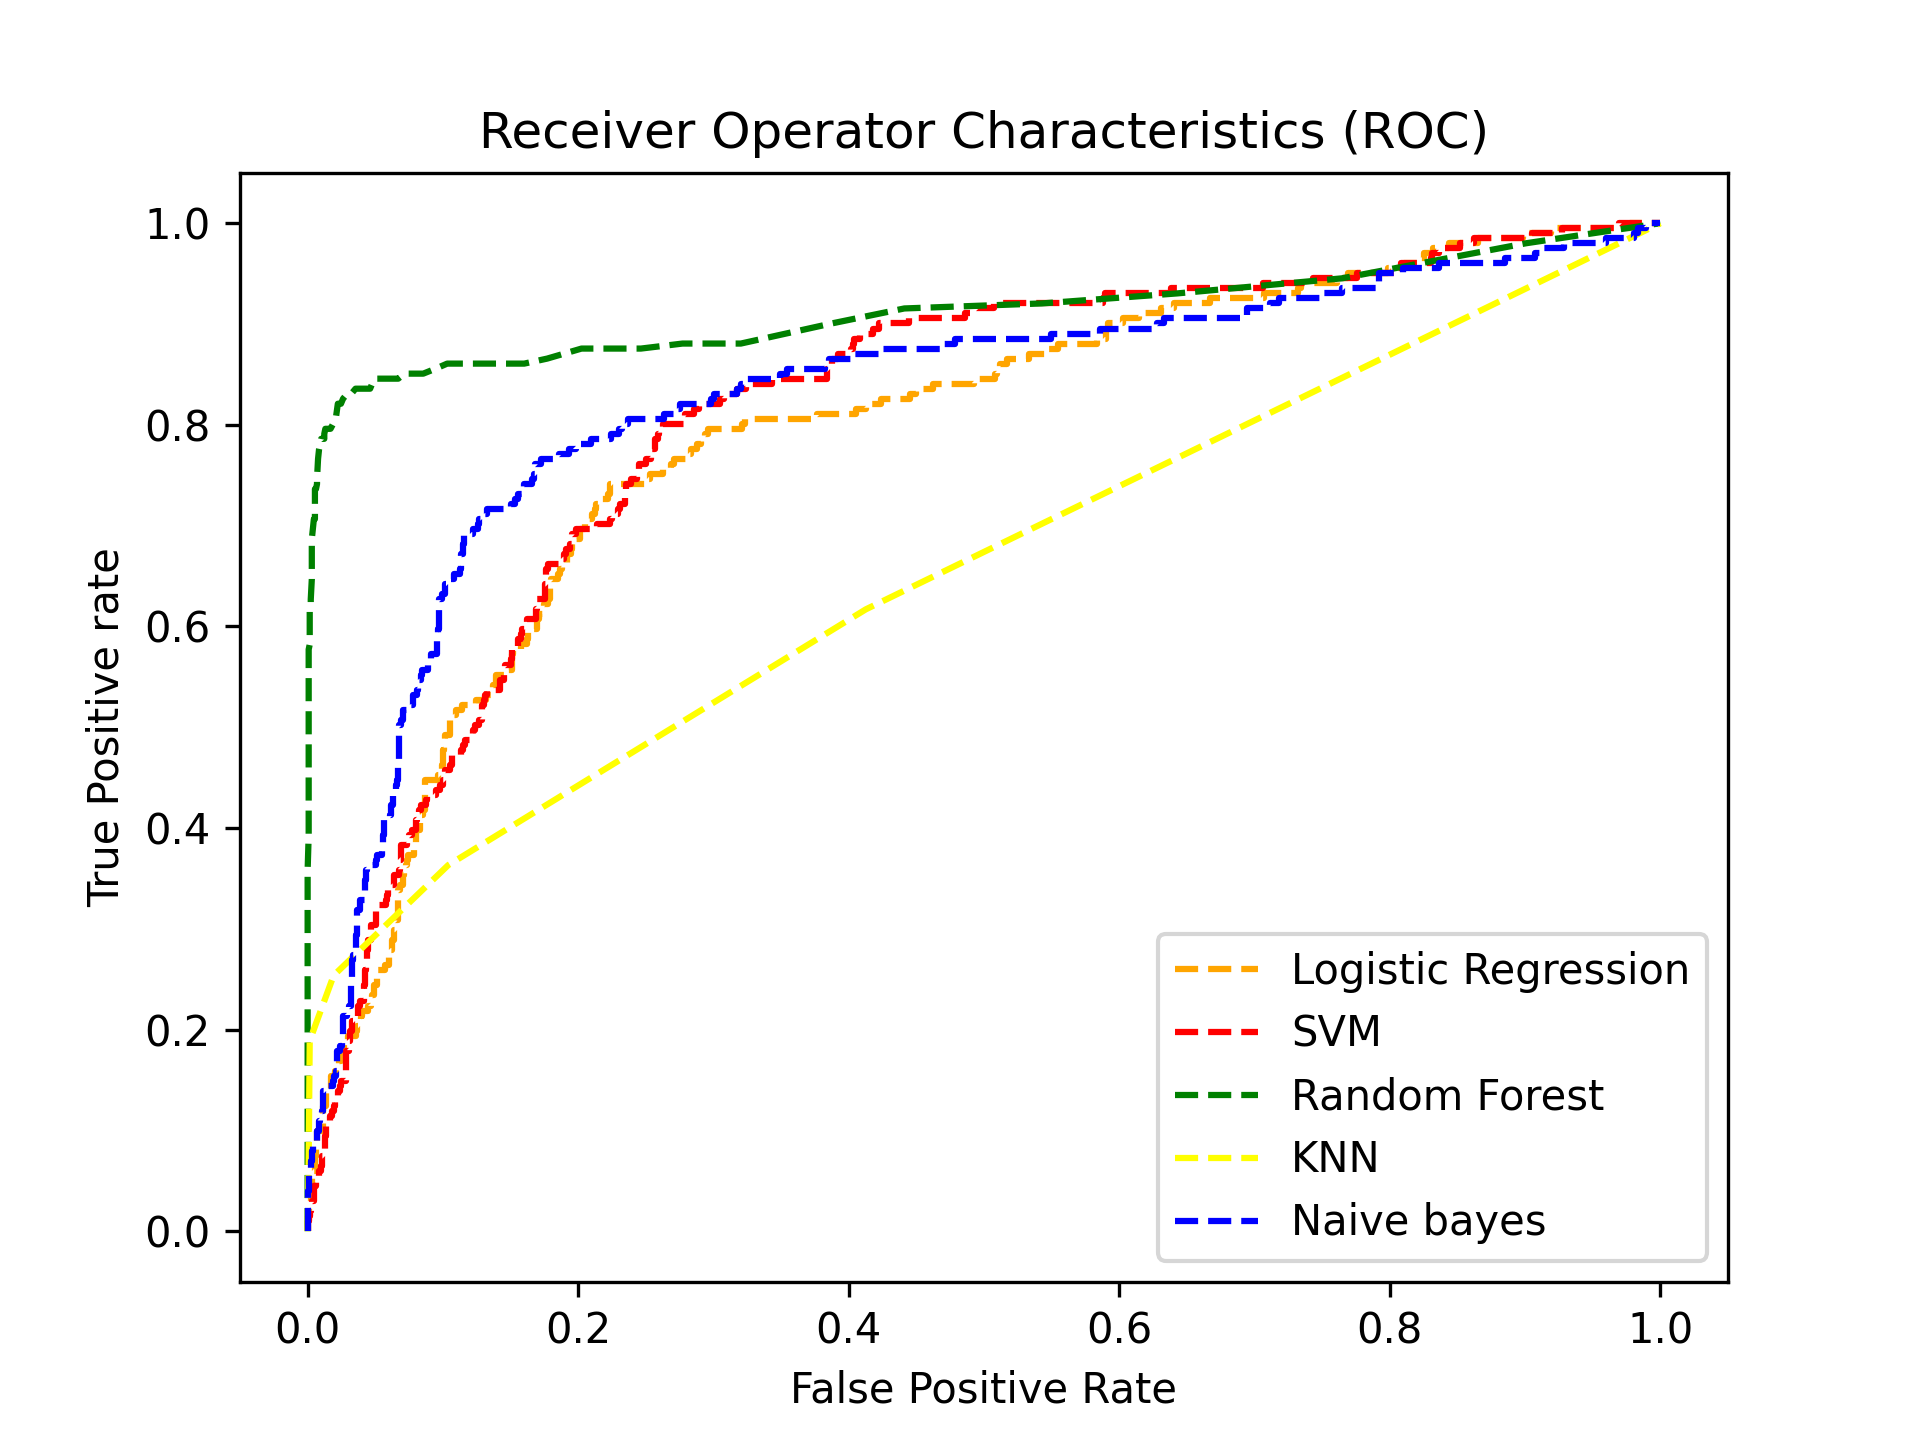
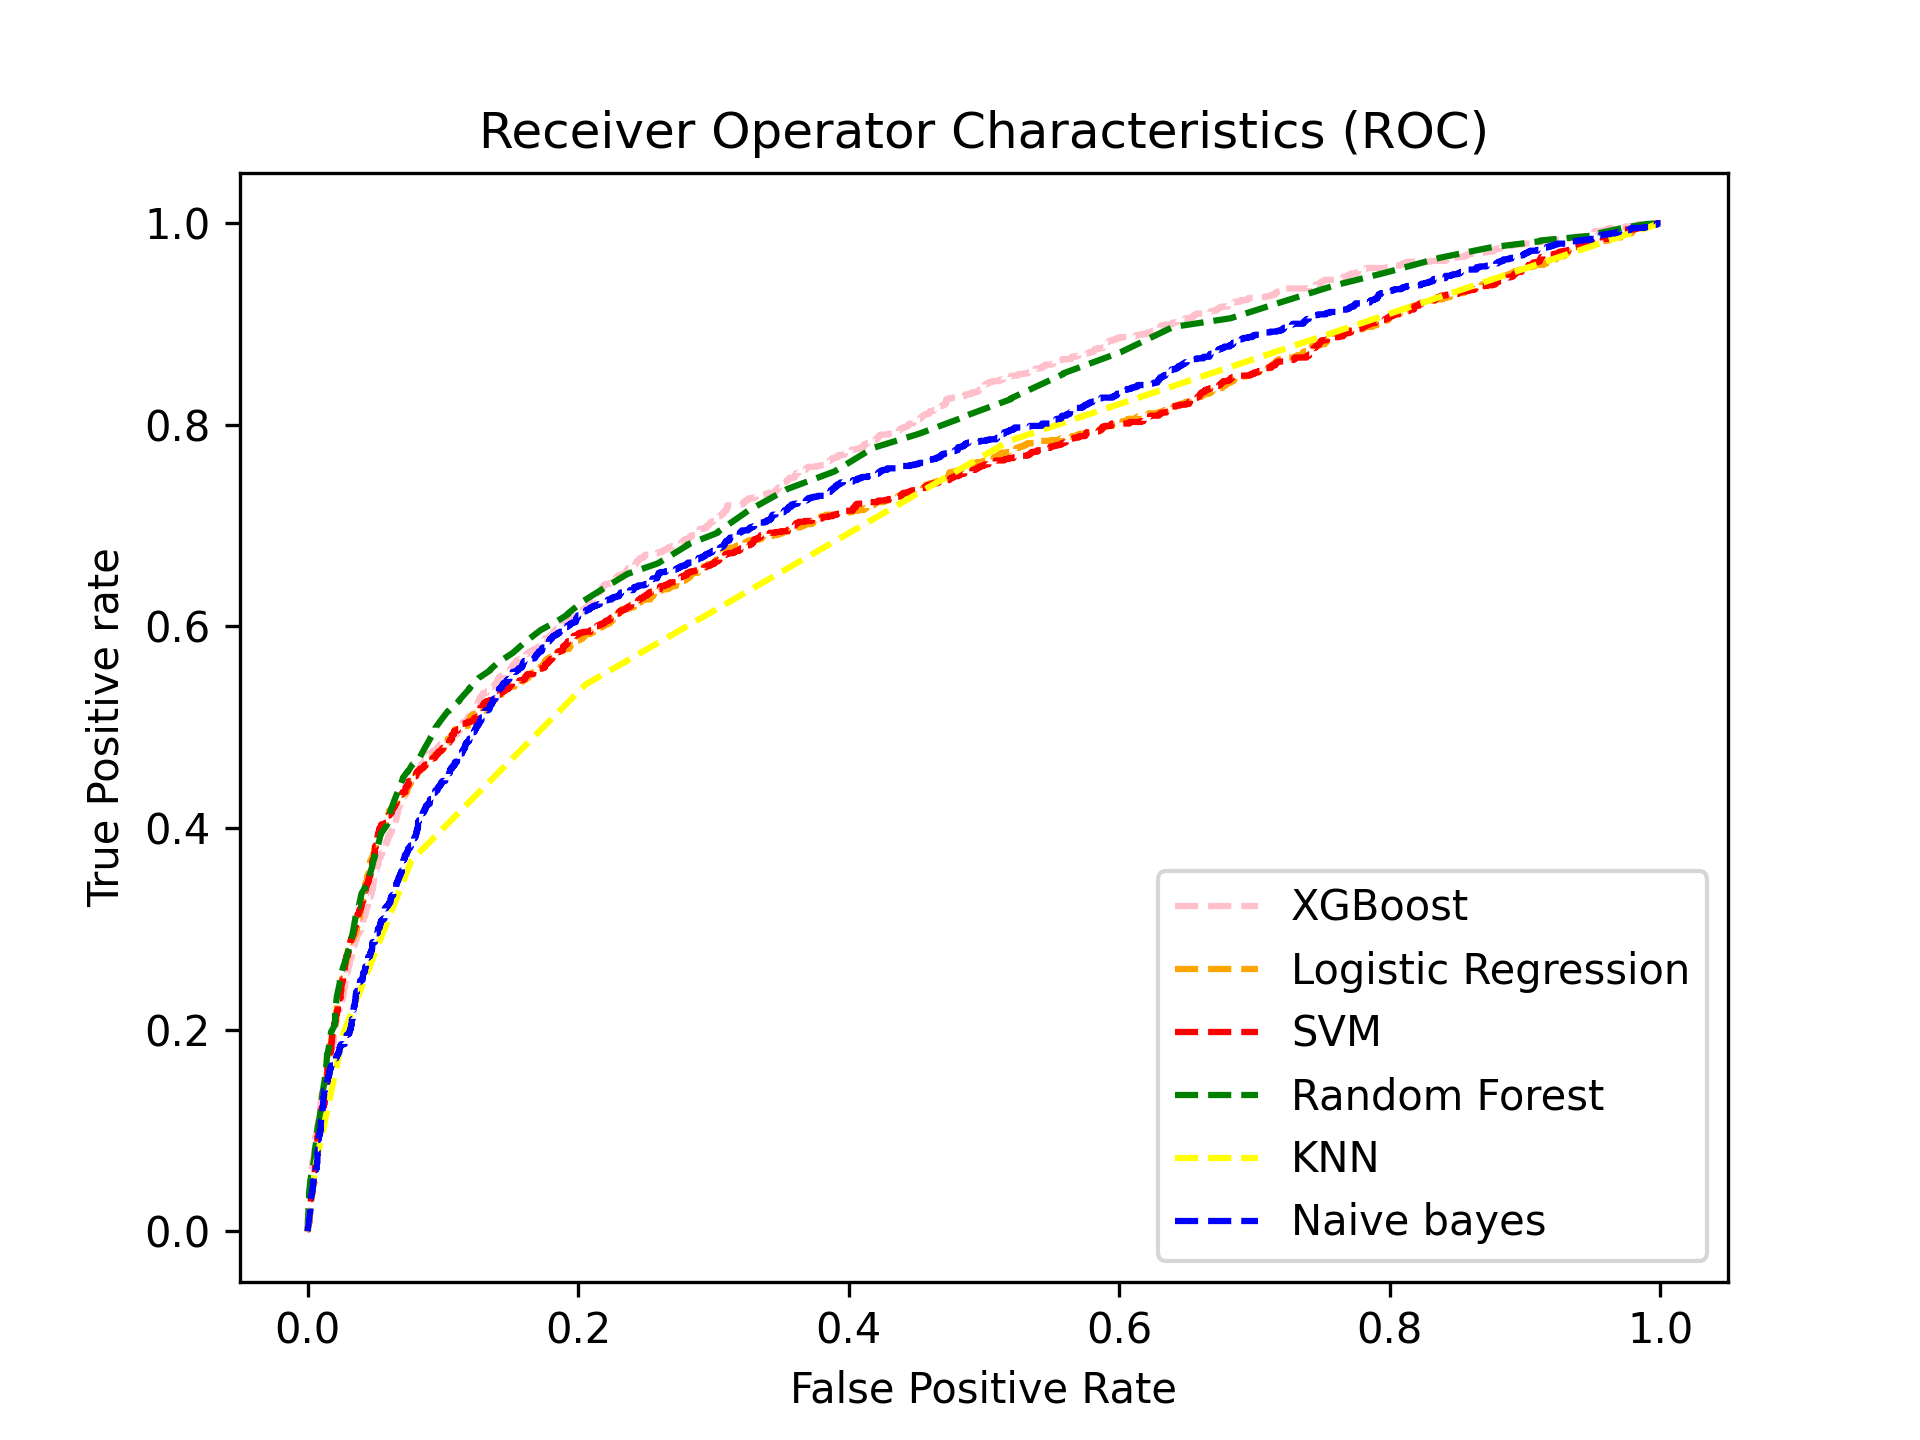
updated second example for classification analysis

diff --git a/ClassificationAnalysis/DataModelPredictCreditCardDefault.py b/ClassificationAnalysis/DataModelPredictCreditCardDefault.py
@@ -1,0 +1,227 @@
+import pandas as pd
+import matplotlib.pyplot as plt
+import seaborn as sns
+import sklearn
+
+######################## Read the tranining data ########################
+#Read the csv file
+
+creditcard_df = pd.read_csv('UCI_Credit_Card.csv')
+print(creditcard_df.info())
+print(creditcard_df.describe())
+print(creditcard_df.isnull().sum())
+
+######################## Perform EDA and Visualization ########################
+'''
+#histogram
+creditcard_df.hist(bins = 30, figsize=(20,20), color='r')
+plt.show()
+
+#pie chart
+creditcard_df["default.payment.next.month"].value_counts()
+plt.figure(figsize = [10, 10])
+creditcard_df["default.payment.next.month"].value_counts().plot(kind='pie')
+plt.show()
+
+# Correlation Matrix
+corr_matrix = creditcard_df.corr()
+plt.figure(figsize = (15, 15))
+cm = sns.heatmap(corr_matrix,
+               linewidths = 1,
+               annot = True, 
+               fmt = ".2f")
+plt.title("Correlation Matrix of Credit Card Customers", fontsize = 20)
+plt.show()
+'''
+######################## Prepare Data before model training ########################
+#1)First check if there is any null values for any row/columns and think whether to remove or replace such entries
+print(creditcard_df.isnull().sum())
+
+#2)Remove probably columns which does not have any impact/value on the model and can consume unnecessary memory, cpu.
+creditcard_df.drop(['ID'], axis = 1, inplace = True)
+
+#3)Check for balance/imbalance in the data set
+print("Total =", len(creditcard_df))
+cc_default_df = creditcard_df[creditcard_df['default.payment.next.month'] == 1]
+print("Number of customers who defaulted on their credit card payments =", len(cc_default_df))
+cc_nodefault_df = creditcard_df[creditcard_df['default.payment.next.month'] == 0]
+print("Number of customers who did not default on their credit card payments (paid their balance)=", len(cc_nodefault_df))
+
+#4)Do onehotencoder data preprocessing to convert categorical data into a format that works better with machine learning algorithms(for example in binary code)
+#Split input variables
+X_cat = creditcard_df[['SEX', 'EDUCATION', 'MARRIAGE']]
+from sklearn.preprocessing import OneHotEncoder
+onehotencoder = OneHotEncoder()
+X_cat = onehotencoder.fit_transform(X_cat).toarray()
+print(X_cat.shape)
+X_cat = pd.DataFrame(X_cat)
+
+#5)Data preprocessing like scaling
+X_numerical = creditcard_df[['LIMIT_BAL', 'AGE', 'PAY_0', 'PAY_2', 'PAY_3', 'PAY_4', 'PAY_5', 'PAY_6', 
+                'BILL_AMT1','BILL_AMT2', 'BILL_AMT3', 'BILL_AMT4', 'BILL_AMT5', 'BILL_AMT6',
+                'PAY_AMT1', 'PAY_AMT2', 'PAY_AMT3', 'PAY_AMT4', 'PAY_AMT5', 'PAY_AMT6']]
+X = pd.concat([X_cat, X_numerical], axis = 1)
+#print(X.head(4))
+
+from sklearn.preprocessing import MinMaxScaler
+scaler = MinMaxScaler()
+X.columns = X.columns.astype(str)
+X = scaler.fit_transform(X)
+print("-------------------------------------------------------------------------------------------------\n")
+#print(X)
+
+#6)split output variable
+y = creditcard_df['default.payment.next.month']
+
+########################Perform train/test split########################
+from sklearn.model_selection import train_test_split
+X_train, X_test, y_train, y_test = train_test_split(X, y, test_size=0.2)
+print(X_train.shape)
+print(X_test.shape)
+
+################################################ Train the model ################################################
+#XG-BOOST CLASSIFIER
+import xgboost as xgb
+from sklearn.metrics import classification_report, confusion_matrix
+
+model_XGB = xgb.XGBClassifier(learning_rate = 0.1, max_depth = 20, use_label_encoder = False)
+model_XGB.fit(X_train,y_train.values.ravel())
+
+y_predict = model_XGB.predict(X_test)
+print("Prediction from XGBoost classifier \n")
+print(classification_report(y_test, y_predict))
+
+#plot the confusion matrix
+#cm = confusion_matrix(y_test, y_predict)
+#sns.heatmap(cm, annot=True, fmt=".4g")
+#plt.show()
+
+
+#LOGISTIC REGRESSION CLASSIFIER
+from sklearn.linear_model import LogisticRegression
+model_LR = LogisticRegression(max_iter=3000)
+model_LR.fit(X_train, y_train.values.ravel())
+
+y_predict = model_LR.predict(X_test)
+print("Prediction from Logistic Regression classifier \n")
+print(classification_report(y_test, y_predict))
+
+#plot the confusion matrix
+#cm = confusion_matrix(y_test, y_predict)
+#sns.heatmap(cm, annot=True, fmt=".4g")
+#plt.show()
+
+
+#SUPPORT VECTOR MACHINE CLASSIFIER
+from sklearn.calibration import CalibratedClassifierCV
+from sklearn.svm import LinearSVC
+
+#Below portion of code is to suppress Warning during training of the SVM model
+from warnings import simplefilter
+from sklearn.exceptions import ConvergenceWarning
+simplefilter("ignore", category=ConvergenceWarning)
+simplefilter("ignore", category=FutureWarning)
+
+model_svc = LinearSVC(max_iter=10000)
+model_svm = CalibratedClassifierCV(model_svc)
+model_svm.fit(X_train,y_train.values.ravel())
+
+y_predict = model_svm.predict(X_test)
+
+print("Prediction from Support Vector Machine classifier \n")
+print(classification_report(y_test, y_predict))
+
+#plot the confusion matrix
+#cm = confusion_matrix(y_test, y_predict)
+#sns.heatmap(cm, annot=True, fmt=".4g")
+#plt.show()
+
+
+#RANDOM FOREST CLASSIFIER
+from sklearn.ensemble import RandomForestClassifier
+
+model_rf = RandomForestClassifier()
+model_rf.fit(X_train, y_train.values.ravel())
+
+y_predict = model_rf.predict(X_test)
+print("Prediction from Random Forest classifier \n")
+print(classification_report(y_test, y_predict))
+
+#plot the confusion matrix
+#cm = confusion_matrix(y_test, y_predict)
+#sns.heatmap(cm, annot=True, fmt=".4g")
+#plt.show()
+
+
+#K-Nearest Neighbour classifier
+
+from sklearn.neighbors import KNeighborsClassifier
+
+model_knn =  KNeighborsClassifier()
+model_knn.fit(X_train, y_train.values.ravel())
+
+y_predict = model_knn.predict(X_test)
+print("Prediction from KNN classifier \n")
+print(classification_report(y_test, y_predict))
+
+#plot the confusion matrix
+#cm = confusion_matrix(y_test, y_predict)
+#sns.heatmap(cm, annot=True, fmt=".4g")
+#plt.show()
+
+
+#Naive Bayes classifier
+from sklearn.naive_bayes import GaussianNB
+
+model_gnb = GaussianNB()
+model_gnb.fit(X_train, y_train.values.ravel())
+
+y_predict = model_gnb.predict(X_test)
+print("Prediction from Naive Bayes classifier \n")
+print(classification_report(y_test, y_predict))
+
+#plot the confusion matrix
+#cm = confusion_matrix(y_test, y_predict)
+#sns.heatmap(cm, annot=True, fmt=".4g")
+#plt.show()
+
+
+################################################################################################
+#Plot ROC curve and evaluate AUC for all the 5 classifier models from above
+from sklearn.metrics import roc_curve
+fpr1, tpr1, thresh1 = roc_curve(y_test, model_LR.predict_proba(X_test)[:, 1], pos_label = 1)
+fpr2, tpr2, thresh2 = roc_curve(y_test, model_svm.predict_proba(X_test)[:, 1], pos_label = 1)
+fpr3, tpr3, thresh3 = roc_curve(y_test, model_rf.predict_proba(X_test)[:, 1], pos_label = 1)
+fpr4, tpr4, thresh4 = roc_curve(y_test, model_knn.predict_proba(X_test)[:, 1], pos_label = 1)
+fpr5, tpr5, thresh5 = roc_curve(y_test, model_gnb.predict_proba(X_test)[:, 1], pos_label = 1)
+fpr6, tpr6, thresh6 = roc_curve(y_test, model_XGB.predict_proba(X_test)[:, 1], pos_label = 1)
+
+from sklearn.metrics import roc_auc_score
+auc_score1 = roc_auc_score(y_test, model_LR.predict_proba(X_test)[:, 1])
+auc_score2 = roc_auc_score(y_test, model_svm.predict_proba(X_test)[:, 1])
+auc_score3 = roc_auc_score(y_test, model_rf.predict_proba(X_test)[:, 1])
+auc_score4 = roc_auc_score(y_test, model_knn.predict_proba(X_test)[:, 1])
+auc_score5 = roc_auc_score(y_test, model_gnb.predict_proba(X_test)[:, 1])
+auc_score6 = roc_auc_score(y_test, model_XGB.predict_proba(X_test)[:, 1])
+
+print("XG Boost: ", auc_score6) # XGBoost
+print("Logistic Regression: ", auc_score1) # Logistic Regression
+print("Support Vector Machine: ", auc_score2) # Support Vector Machine
+print("Random Forest: ", auc_score3) # Random Forest
+print("K-Nearest Neighbors: ", auc_score4) # K-Nearest Neighbors
+print("Naive Bayes: ", auc_score5) # Naive Bayes
+
+plt.plot(fpr6, tpr6, linestyle = "--", color = "pink", label = "XGBoost")
+plt.plot(fpr1, tpr1, linestyle = "--", color = "orange", label = "Logistic Regression")
+plt.plot(fpr2, tpr2, linestyle = "--", color = "red", label = "SVM")
+plt.plot(fpr3, tpr3, linestyle = "--", color = "green", label = "Random Forest")
+plt.plot(fpr4, tpr4, linestyle = "--", color = "yellow", label = "KNN")
+plt.plot(fpr5, tpr5, linestyle = "--", color = "blue", label = "Naive bayes")
+
+plt.title('Receiver Operator Characteristics (ROC)')
+plt.xlabel('False Positive Rate')
+plt.ylabel('True Positive rate')
+
+plt.legend(loc = 'best')
+plt.savefig('ROC', dpi = 300)
+plt.show()
